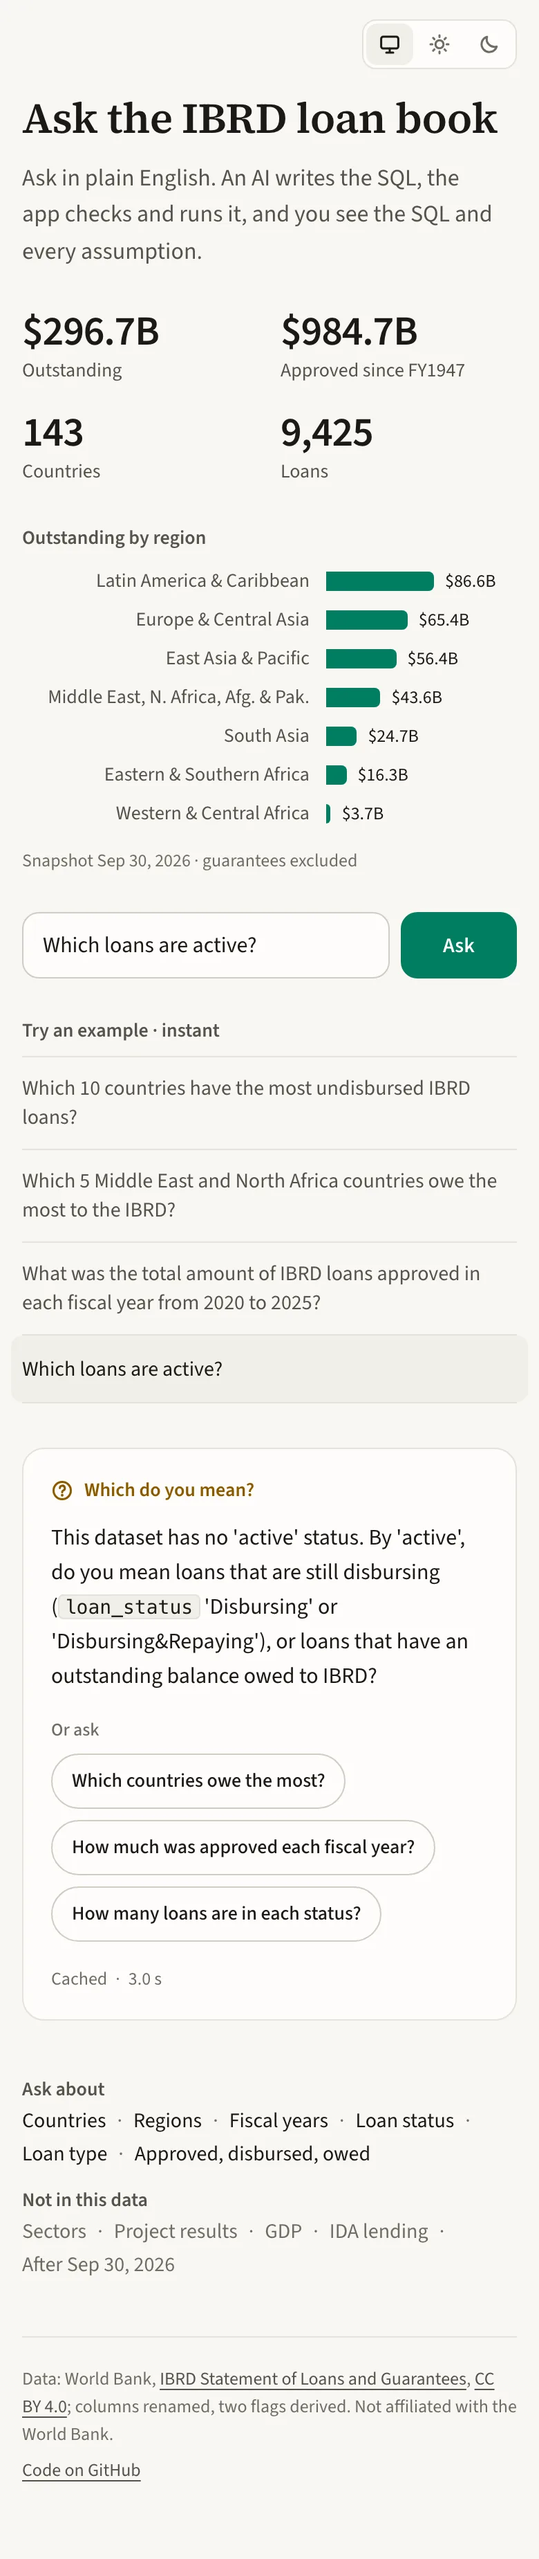
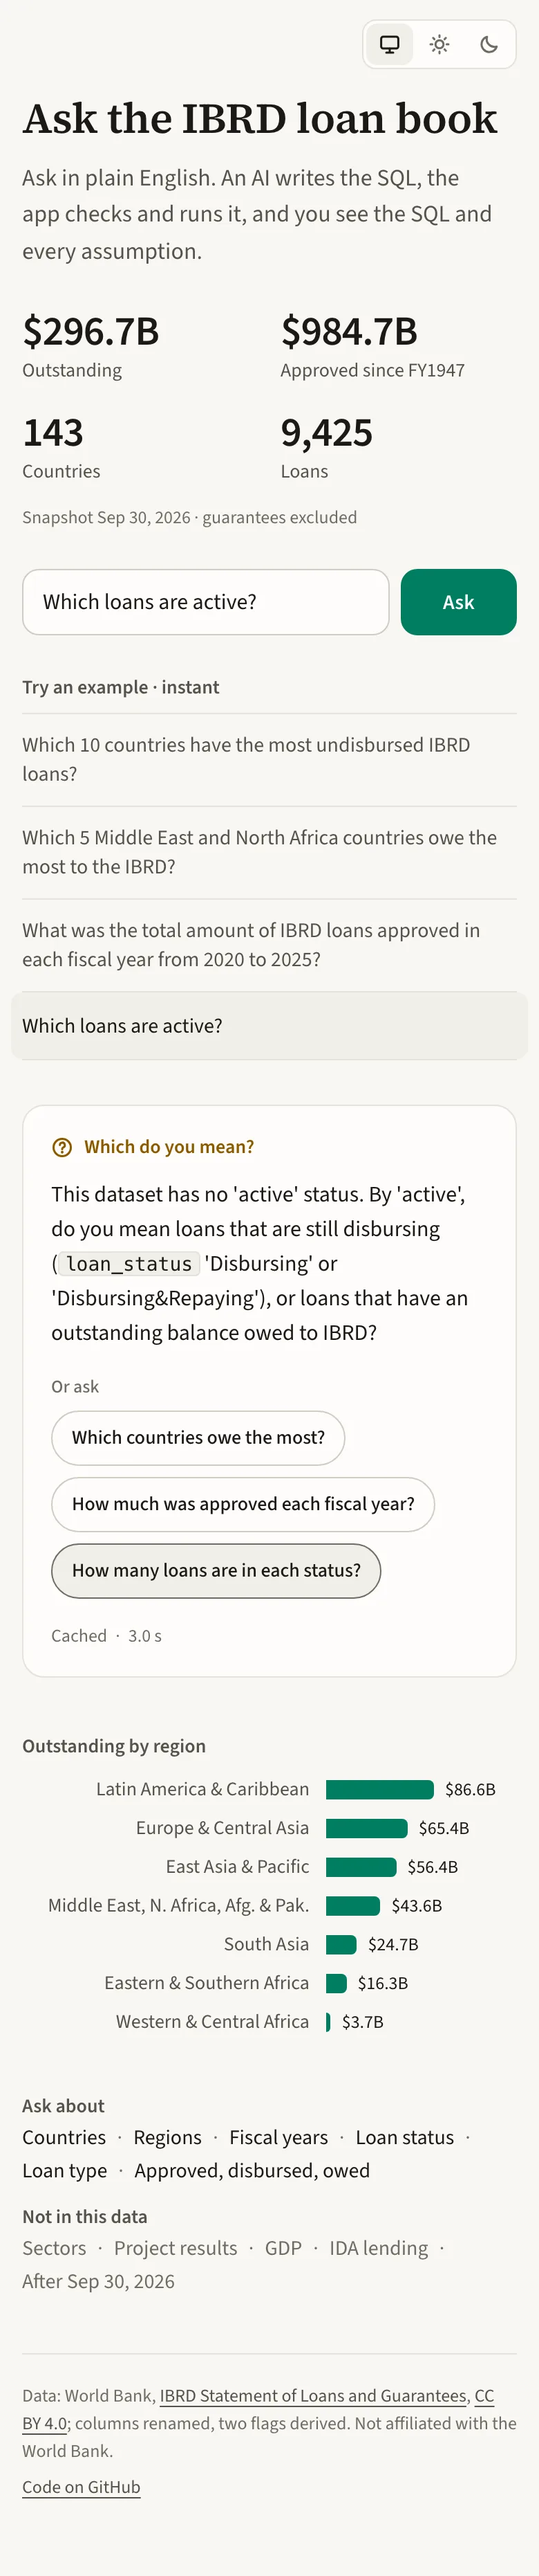
Region chart below the examples; tabular figures in the stat strip, chart values and answer tables
Page order: headline, subtitle, stats, ask box, examples, (result), region chart, data panel; Playwright
checks the order at 390 and 1200 px and the computed font-variant-numeric. after/ screenshots re-shot.

diff --git a/web/e2e/smoke.spec.ts b/web/e2e/smoke.spec.ts
@@ -66,10 +66,34 @@ test("stat strip shows the numbers in stats.json (checked against pandas in test
   expect(usd(stats.approved_usd)).toBe("$984.7B");
   await expect(strip).toContainText("Snapshot Sep 30, 2026");
 
-  const bars = strip.getByRole("figure", { name: "Outstanding by region" }).getByRole("listitem");
+  const bars = page.getByRole("figure", { name: "Outstanding by region" }).getByRole("listitem");
   await expect(bars).toHaveCount(stats.outstanding_by_region.length);
   await expect(bars.locator(".name")).toHaveText(stats.outstanding_by_region.map((r) => r.label));
   await expect(bars.locator(".val")).toHaveText(stats.outstanding_by_region.map((r) => usd(r.usd)));
+});
+
+test("page order: headline, subtitle, stats, ask box, examples, region chart, data panel (390 and 1200 px)", async ({ page }) => {
+  await mockAsk(page, {});
+  for (const width of [390, 1200]) {
+    await page.setViewportSize({ width, height: 900 });
+    await page.goto("/");
+    const tops = await page.evaluate(() =>
+      ["h1", ".lede", ".stats", "form.ask", ".examples-block", ".region-chart", ".data-panel"]
+        .map((sel) => document.querySelector(sel)!.getBoundingClientRect().top));
+    for (let i = 1; i < tops.length; i++) expect(tops[i]).toBeGreaterThan(tops[i - 1]);
+  }
+});
+
+test("tabular figures in the stat strip, the chart values and answer tables", async ({ page }) => {
+  await mockAsk(page, {});
+  await page.goto("/");
+  const numeric = (sel: string) => page.locator(sel).first().evaluate((el) => getComputedStyle(el).fontVariantNumeric);
+  expect(await numeric(".stats dd")).toBe("tabular-nums");
+  expect(await numeric(".region-chart .val")).toBe("tabular-nums");
+  await page.getByRole("button", { name: /Which 10 countries have the most undisbursed/ }).click();
+  await page.getByRole("article").getByRole("tab", { name: "Table" }).click();
+  expect(await numeric("article td")).toBe("tabular-nums");
+  expect(await numeric("article td.num")).toBe("tabular-nums");
 });
 
 test("cold server: visible waking state, examples still instant, live question waits with a waking step", async ({ page }) => {

diff --git a/web/src/app/globals.css b/web/src/app/globals.css
@@ -84,7 +84,7 @@ h1 { font: 600 31px/1.16 var(--serif); letter-spacing: -0.01em; margin: 0 0 12px
 .stats dl > div { display: flex; flex-direction: column-reverse; gap: 2px; min-width: 0; }
 .stats dd { margin: 0; font: 600 30px/1.1 var(--sans); letter-spacing: -0.02em; font-variant-numeric: tabular-nums; }
 .stats dt { font-size: 14px; line-height: 20px; color: var(--ink-2); }
-.chart.region-chart { margin-top: 28px; max-width: 560px; }
+.chart.region-chart { margin: 0 0 40px; max-width: 560px; }
 .region-chart .chart-title { font-weight: 600; color: var(--ink-2); font-size: 14px; line-height: 20px; margin-bottom: 10px; }
 .region-chart .bars { grid-template-columns: minmax(7.5rem, 13rem) 1fr; row-gap: 6px; }
 .region-chart .bars .name { white-space: normal; line-height: 18px; text-wrap: balance; }
@@ -277,7 +277,7 @@ code.ident { font: 0.875em var(--mono); background: var(--wash); border: 1px sol
 
 .table-scroll { overflow: auto; max-height: 480px; margin: 0 -4px; border-radius: 4px; overscroll-behavior-x: contain; }
 .table-scroll:focus-visible { outline-offset: 0; }
-table { width: 100%; border-collapse: separate; border-spacing: 0; font-size: 14px; line-height: 20px; }
+table { width: 100%; border-collapse: separate; border-spacing: 0; font-size: 14px; line-height: 20px; font-variant-numeric: tabular-nums; }
 th {
   position: sticky; top: 0; z-index: 1; background: var(--surface); text-align: left; font-weight: 600; color: var(--ink-2);
   border-bottom: 1px solid var(--rule); padding: 8px 10px; white-space: nowrap;

diff --git a/web/src/components/Stats.tsx b/web/src/components/Stats.tsx
@@ -1,6 +1,5 @@
 // Headline numbers from web/src/data/stats.json (scripts/build_stats.py; tests/test_stats.py checks every value
 // against pandas). Loans only. Rounded here for display; hover shows the exact value.
-// The region chart is static: one series in the accent, value at each bar tip, so there is no axis.
 
 import type { Stats as StatsFile } from "@/lib/types";
 import { compactUsd, exactValue, longDate } from "@/lib/format";
@@ -22,28 +21,7 @@ export function Stats({ stats }: { stats: StatsFile }) {
           </div>
         ))}
       </dl>
-      <RegionChart regions={stats.outstanding_by_region} />
       <p className="snapshot">Snapshot {longDate(stats.end_of_period)} · guarantees excluded</p>
     </section>
-  );
-}
-
-function RegionChart({ regions }: { regions: StatsFile["outstanding_by_region"] }) {
-  const max = Math.max(...regions.map((r) => r.usd), 0) || 1;
-  return (
-    <figure className="chart region-chart">
-      <figcaption className="chart-title">Outstanding by region</figcaption>
-      <ol className="bars">
-        {regions.map((r) => (
-          <li key={r.region} title={`${r.label}: ${exactValue(r.usd, "usd", false)}`}>
-            <span className="name">{r.label}</span>
-            <span className="track">
-              <span className="bar" style={{ "--w": `${(r.usd / max) * 100}%` } as React.CSSProperties} />
-              <span className="val">{compactUsd(r.usd)}</span>
-            </span>
-          </li>
-        ))}
-      </ol>
-    </figure>
   );
 }

diff --git a/web/src/components/RegionChart.tsx b/web/src/components/RegionChart.tsx
@@ -1,0 +1,25 @@
+// "Outstanding by region" from web/src/data/stats.json (checked against pandas in tests/test_stats.py).
+// Static: one series in the accent, value at each bar tip, so there is no axis. Hover shows the exact value.
+
+import type { Stats } from "@/lib/types";
+import { compactUsd, exactValue } from "@/lib/format";
+
+export function RegionChart({ regions }: { regions: Stats["outstanding_by_region"] }) {
+  const max = Math.max(...regions.map((r) => r.usd), 0) || 1;
+  return (
+    <figure className="chart region-chart">
+      <figcaption className="chart-title">Outstanding by region</figcaption>
+      <ol className="bars">
+        {regions.map((r) => (
+          <li key={r.region} title={`${r.label}: ${exactValue(r.usd, "usd", false)}`}>
+            <span className="name">{r.label}</span>
+            <span className="track">
+              <span className="bar" style={{ "--w": `${(r.usd / max) * 100}%` } as React.CSSProperties} />
+              <span className="val">{compactUsd(r.usd)}</span>
+            </span>
+          </li>
+        ))}
+      </ol>
+    </figure>
+  );
+}

diff --git a/web/src/app/page.tsx b/web/src/app/page.tsx
@@ -1,5 +1,6 @@
 import { Ask } from "@/components/Ask";
 import { DataPanel } from "@/components/DataPanel";
+import { RegionChart } from "@/components/RegionChart";
 import { Stats } from "@/components/Stats";
 import { ThemeToggle } from "@/components/ThemeToggle";
 import type { ExamplesFile, Stats as StatsFile } from "@/lib/types";
@@ -29,6 +30,7 @@ export default function Home() {
 
       <main>
         <Ask examples={examples} />
+        <RegionChart regions={stats.outstanding_by_region} />
         <DataPanel endOfPeriod={ds.end_of_period} />
       </main>
 
